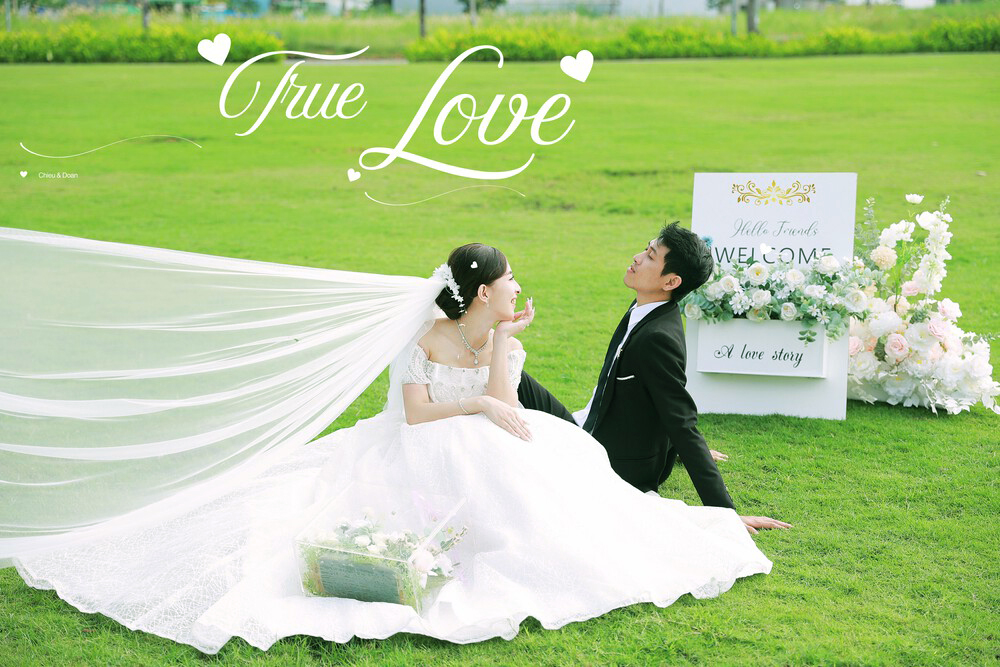
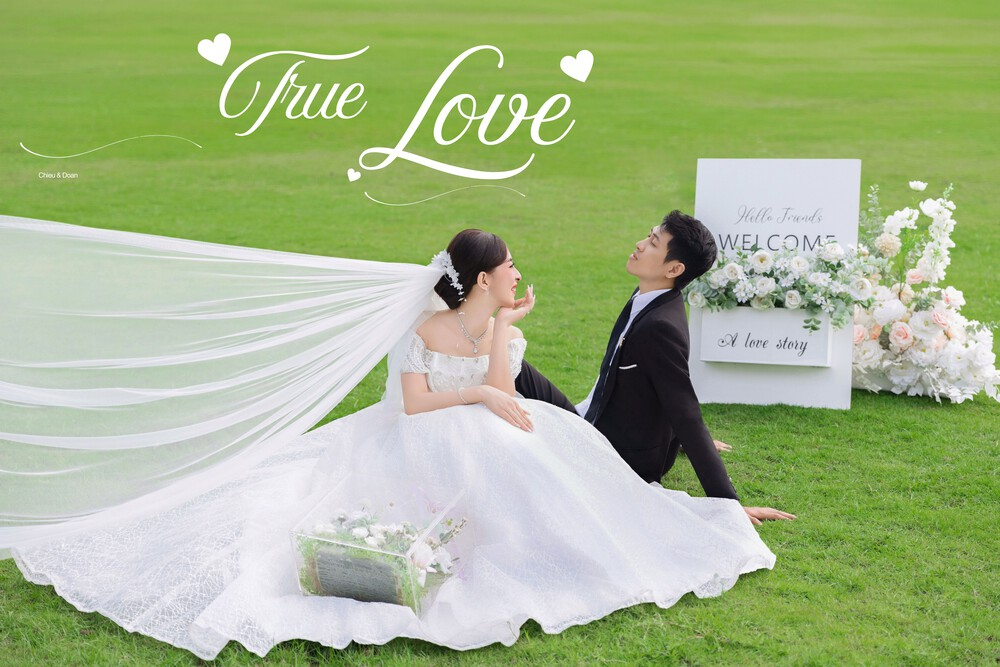
Wedding

diff --git a/index.html b/index.html
@@ -3187,6 +3187,7 @@
                 background-image: url(./images/3F8A3974.jpg);
             }
         }
+
         @media (min-width: 768px) {
             #IMAGE46>.ladi-image>.ladi-image-background {
                 background-image: url(./images/3F8A3266_1.JPG);
@@ -6154,11 +6155,11 @@
             }
 
             #IMAGE340>.ladi-image>.ladi-image-background {
-                width: 396.234px;
-                height: 594.583px;
-                top: -107px;
-                left: 1px;
-                background-image: url(./images/3F8A3940.JPG);
+                width: 589.234px;
+                height: 512.583px;
+                top: -9px;
+                left: -79px;
+                background-image: url(./images/avtarGroom.jpg);
             }
 
             #GROUP348 {
@@ -6308,9 +6309,9 @@
             }
 
             #IMAGE341>.ladi-image>.ladi-image-background {
-                width: 469.895px;
+                width: 442.895px;
                 height: 672.075px;
-                top: -122px;
+                top: -134px;
                 left: -53px;
                 background-image: url(./images/3F8A3815.jpg);
             }
@@ -8699,11 +8700,11 @@
             }
 
             #IMAGE340>.ladi-image>.ladi-image-background {
-                width: 219.055px;
-                height: 328.583px;
-                top: -63px;
-                left: -32.6667px;
-                background-image: url(./images/3F8A3940.JPG);
+                width: 274.055px;
+                height: 230.583px;
+                top: -13px;
+                left: -34.6667px;
+                background-image: url(./images/avtarGroom.jpg);
             }
 
             #GROUP348,
@@ -8848,8 +8849,8 @@
 
             #IMAGE341>.ladi-image>.ladi-image-background {
                 width: 203.055px;
-                height: 274.583px;
-                top: -47px;
+                height: 295.583px;
+                top: -68px;
                 left: -20px;
                 background-image: url(./images/3F8A3815.jpg);
             }
